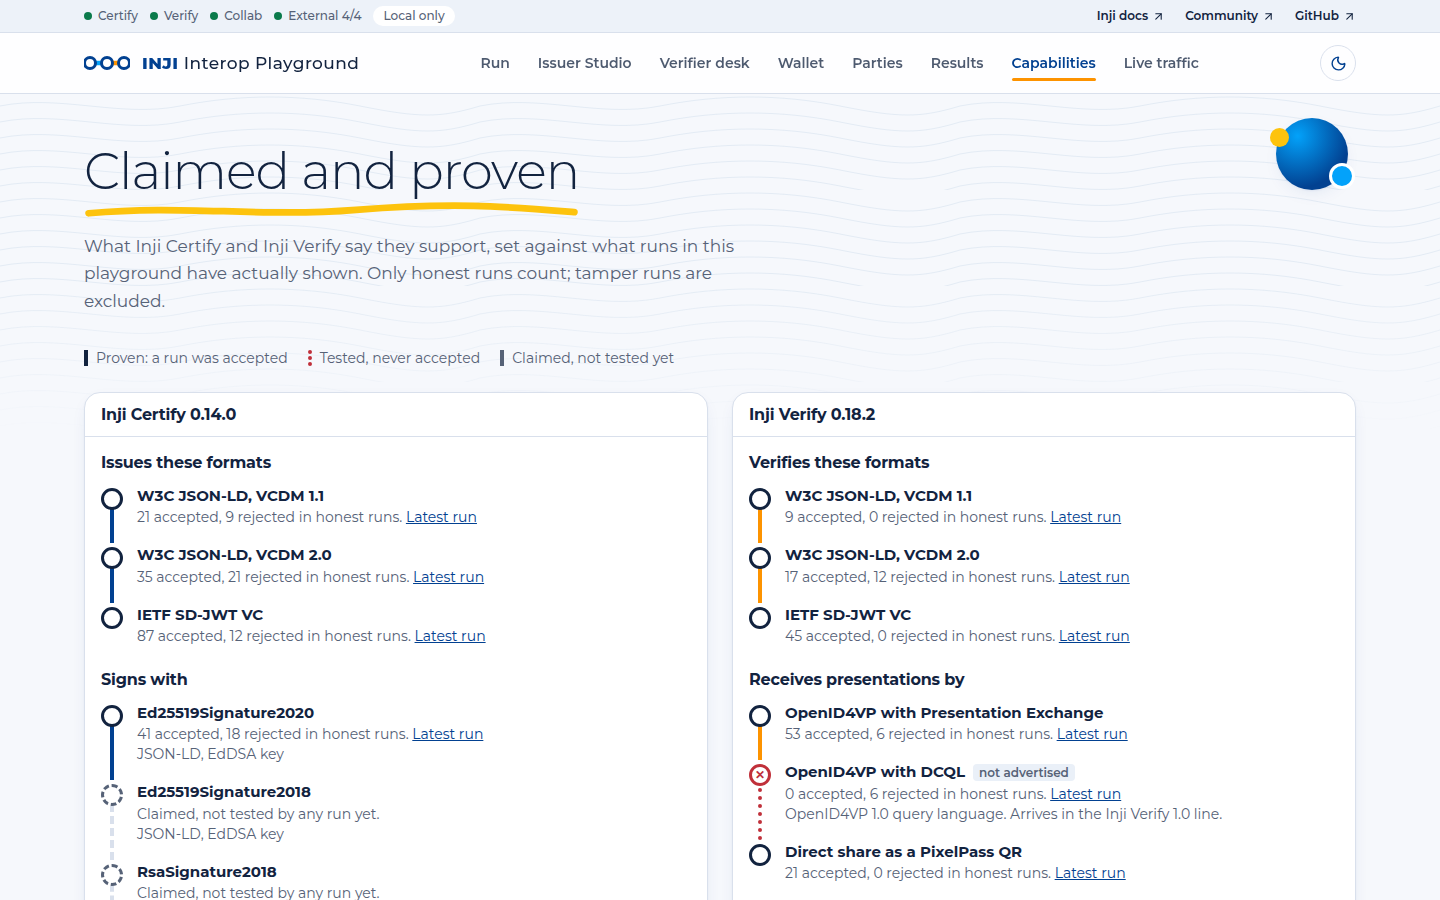
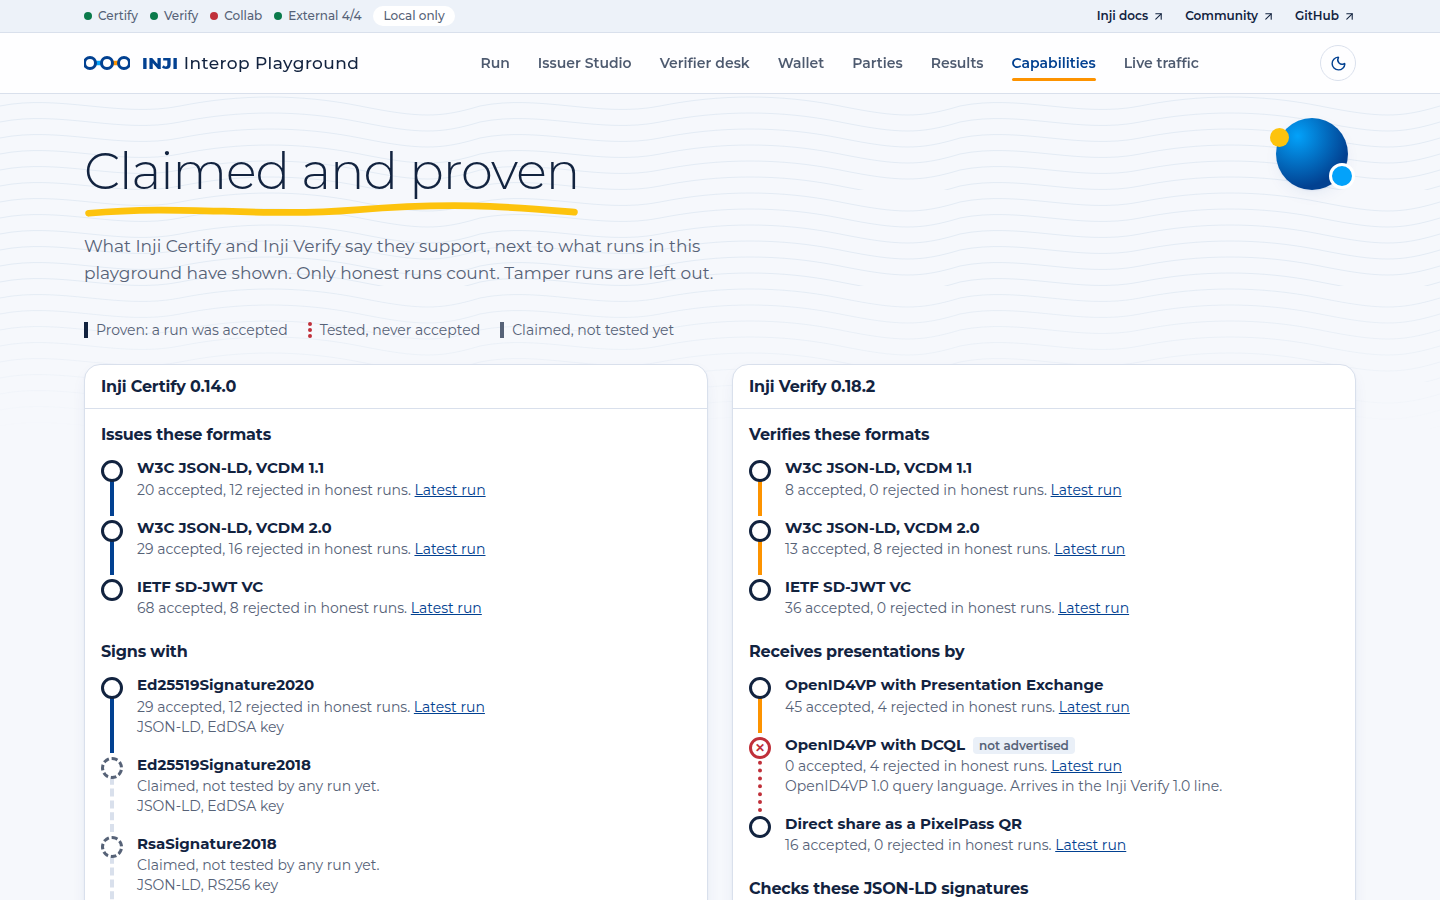
Make the results matrix easier to read and sort proven combinations

Changed region(s): [[0.0625, 0.3111, 0.4688, 1.0], [0.5, 0.4044, 0.8438, 0.9956], [0.1562, 0.2489, 0.5, 0.3111]]

diff --git a/apps/ui/src/pages/Capabilities.tsx b/apps/ui/src/pages/Capabilities.tsx
@@ -257,34 +257,42 @@ function ProvenTable({ rows }: { rows: Proven[] }) {
           </tr>
         </thead>
         <tbody>
-          {rows.map((r) => (
-            <tr
-              key={[r.verifier, r.format, r.proof, r.mode, r.query].join("|")}
-              className="border-t border-hairline"
-            >
-              <td className="px-2 py-1.5 font-bold">{r.verifier}</td>
-              <td className="px-2 py-1.5">{r.format}</td>
-              <td className="px-2 py-1.5">{r.proof}</td>
-              <td className="px-2 py-1.5">
-                {r.mode === "direct-share"
-                  ? "Direct share"
-                  : r.query === "dcql"
-                    ? "OpenID4VP, DCQL"
-                    : "OpenID4VP, PE"}
-              </td>
-              <td className={cx("tabular px-2 py-1.5 font-bold", r.accepted ? "text-pass" : "text-muted")}>
-                {r.accepted}
-              </td>
-              <td className={cx("tabular px-2 py-1.5 font-bold", r.rejected ? "text-fail" : "text-muted")}>
-                {r.rejected}
-              </td>
-              <td className="px-2 py-1.5">
-                <Link to={`/runs/${r.lastRun}`} className="text-issue underline">
-                  Latest run
-                </Link>
-              </td>
-            </tr>
-          ))}
+          {[...rows]
+            .sort(
+              (a, b) =>
+                a.verifier.localeCompare(b.verifier) ||
+                a.format.localeCompare(b.format) ||
+                a.proof.localeCompare(b.proof) ||
+                String(a.query).localeCompare(String(b.query)),
+            )
+            .map((r) => (
+              <tr
+                key={[r.verifier, r.format, r.proof, r.mode, r.query].join("|")}
+                className="border-t border-hairline"
+              >
+                <td className="px-2 py-1.5 font-bold">{r.verifier}</td>
+                <td className="px-2 py-1.5">{r.format}</td>
+                <td className="px-2 py-1.5">{r.proof}</td>
+                <td className="px-2 py-1.5">
+                  {r.mode === "direct-share"
+                    ? "Direct share"
+                    : r.query === "dcql"
+                      ? "OpenID4VP, DCQL"
+                      : "OpenID4VP, PE"}
+                </td>
+                <td className={cx("tabular px-2 py-1.5 font-bold", r.accepted ? "text-pass" : "text-muted")}>
+                  {r.accepted}
+                </td>
+                <td className={cx("tabular px-2 py-1.5 font-bold", r.rejected ? "text-fail" : "text-muted")}>
+                  {r.rejected}
+                </td>
+                <td className="px-2 py-1.5">
+                  <Link to={`/runs/${r.lastRun}`} className="text-issue underline">
+                    Latest run
+                  </Link>
+                </td>
+              </tr>
+            ))}
         </tbody>
       </table>
     </div>

diff --git a/apps/ui/src/pages/Results.tsx b/apps/ui/src/pages/Results.tsx
@@ -28,7 +28,7 @@ const ownRequest = (r: Run) => Boolean(r.labels.external?.verifier);
 const columnOf = (r: Run) => (ownRequest(r) ? `${r.spec.verifier}|own` : `${r.spec.verifier}|${how(r)}`);
 
 function Cell({ run }: { run?: Run }) {
-  if (!run) return <span className="text-sm text-muted">Not run</span>;
+  if (!run) return <span className="text-sm text-muted/60">Not run</span>;
   const res = run.result;
   const outcome =
     res?.verifierOutcome === "ACCEPTED"
@@ -137,10 +137,10 @@ function Matrix() {
         the verifier rejects it.
       </p>
       <div className="overflow-x-auto rounded-[10px] border border-hairline bg-surface">
-        <table className="w-full min-w-[64rem] border-collapse text-left">
+        <table className="w-full min-w-[72rem] border-collapse text-left">
           <thead>
             <tr className="border-b border-hairline align-bottom">
-              <th scope="col" className="px-3 py-2.5 text-sm font-bold">
+              <th scope="col" className="sticky left-0 z-10 bg-surface px-3 py-2.5 text-sm font-bold">
                 Credential, wallet and fault
               </th>
               {columns.map((c) => (
@@ -160,11 +160,13 @@ function Matrix() {
                   r.tamper !== "none" && "bg-present-soft/40",
                 )}
               >
-                <th scope="row" className="min-w-[11rem] px-3 py-2 align-top font-normal">
+                <th
+                  scope="row"
+                  className="sticky left-0 z-10 w-[16rem] min-w-[16rem] bg-surface px-3 py-2 align-top font-normal"
+                >
                   <span className="block font-bold">{r.typeName}</span>
-                  <span className="block text-sm text-muted">{r.format}</span>
                   <span className="block text-sm text-muted">
-                    Wallet:{" "}
+                    {r.format} ·{" "}
                     <span className={cx(r.externalWallet && "font-semibold text-ink")}>{r.wallet}</span>
                   </span>
                   {r.tamper !== "none" && (
